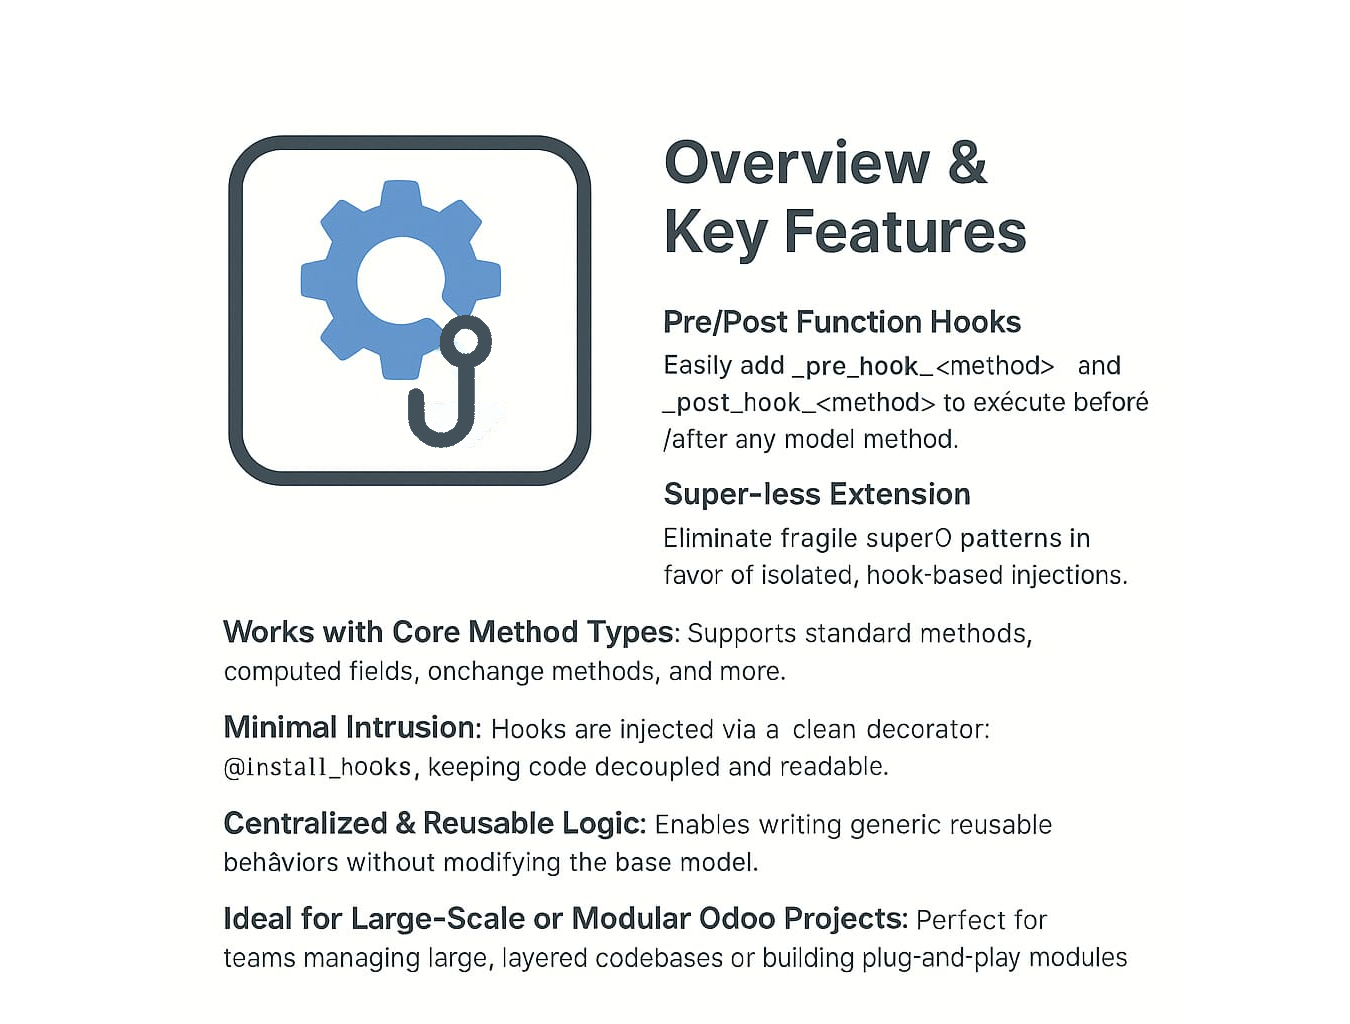
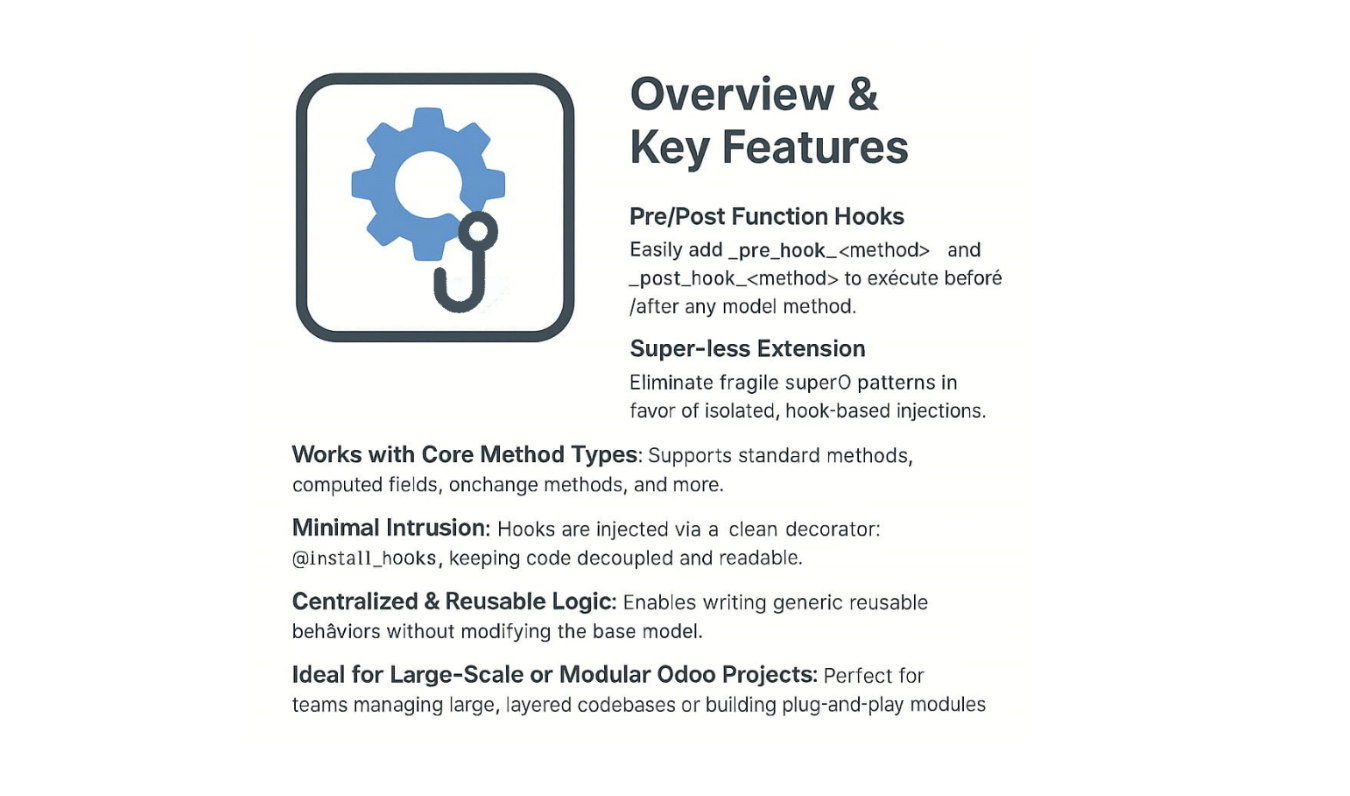
Hook Model Methods module cover and index fix

Changed region(s): [[0.1556, 0.0905, 0.84, 0.9648], [0.1867, 0.0905, 0.4356, 0.4824], [0.1556, 0.1508, 0.1867, 0.4523]]

diff --git a/hook_model_methods/static/description/index.html b/hook_model_methods/static/description/index.html
@@ -10,12 +10,12 @@
         <h1 class="text-center">Hook Model Methods</h1>
     </header>
 
-    <section>
-        <img style="width: 100%;" src="1.png" alt="1">
+    <section class="text-center">
+        <img style="width: 75%;" src="1.png" alt="1">
     </section>
 
     <section
-            style="background: linear-gradient(to right, RGBA(113, 75, 103, 1), RGBA(113, 75, 122, 1)); color: white; padding: 30px 20px; margin-top: 40px; margin-bottom: 40px; text-align: center; border-radius: 8px;">
+            style="background-color: RGBA(113, 75, 103, 1); color: white; padding: 30px 20px; margin-top: 40px; margin-bottom: 40px; text-align: center; border-radius: 8px;">
         <h2 style="font-size: 28px; margin-bottom: 15px; font-weight: bolder; color: inherit">📢 Available for Hire!</h2>
         <p style="font-size: 18px; max-width: 700px; margin: auto;">
             Looking for a skilled and reliable <b>Odoo Developer</b> to bring your business ideas to life? or to fix
@@ -41,14 +41,14 @@
     </section>
 
     <section>
-    <h3>Overview</h3>
-    <p>
-        This module introduces a custom hook system for Odoo models, allowing developers to cleanly inject pre/post logic into existing methods, including normal methods, onchange, compute, and more, without overriding via super().
-    </p>
-    <p>
-        By using @install_hooks, developers can attach logic directly to model functions, making code more modular, maintainable, and less prone to errors caused by traditional super() chains.
-    </p>
-</section>
+        <h3>Overview</h3>
+        <p>
+            This module introduces a custom hook system for Odoo models, allowing developers to cleanly inject pre/post logic into existing methods, including normal methods, onchange, compute, and more, without overriding via super().
+        </p>
+        <p>
+            By using @install_hooks, developers can attach logic directly to model functions, making code more modular, maintainable, and less prone to errors caused by traditional super() chains.
+        </p>
+    </section>
 
     <section>
         <h3>Key Features</h3>
@@ -69,6 +69,7 @@
     </section>
 
     <section>
+        <br/>
         <h4>Developer note</h4>
         <h6>This module is more of my personal development and to show the creativity.</h6>
     </section>
@@ -77,7 +78,7 @@
         <p style="text-align: center;"> Accounting Report Filter First | Compatible with Odoo Enterprise and Odoo.sh</p>
         <br/>
         <section
-            style="background: linear-gradient(to right, RGBA(113, 75, 103, 1), RGBA(113, 75, 122, 1)); color: white; padding: 30px 20px; margin-top: 40px; margin-bottom: 40px; text-align: center; border-radius: 8px;">
+            style="background-color: RGBA(113, 75, 103, 1); color: white; padding: 30px 20px; margin-top: 40px; margin-bottom: 40px; text-align: center; border-radius: 8px;">
         <h4 style="font-size: 28px; margin-bottom: 15px; font-weight: bolder; color: inherit">Contact Details</h4>
         <a href="mailto:rjlrjpt@gmail.com"
            style="display: inline-block; margin: 10px; padding: 12px 25px; background-color: white; color: RGBA(113, 75, 103, 1); font-weight: bold; text-decoration: none; border-radius: 5px; border: 2px solid white;">
